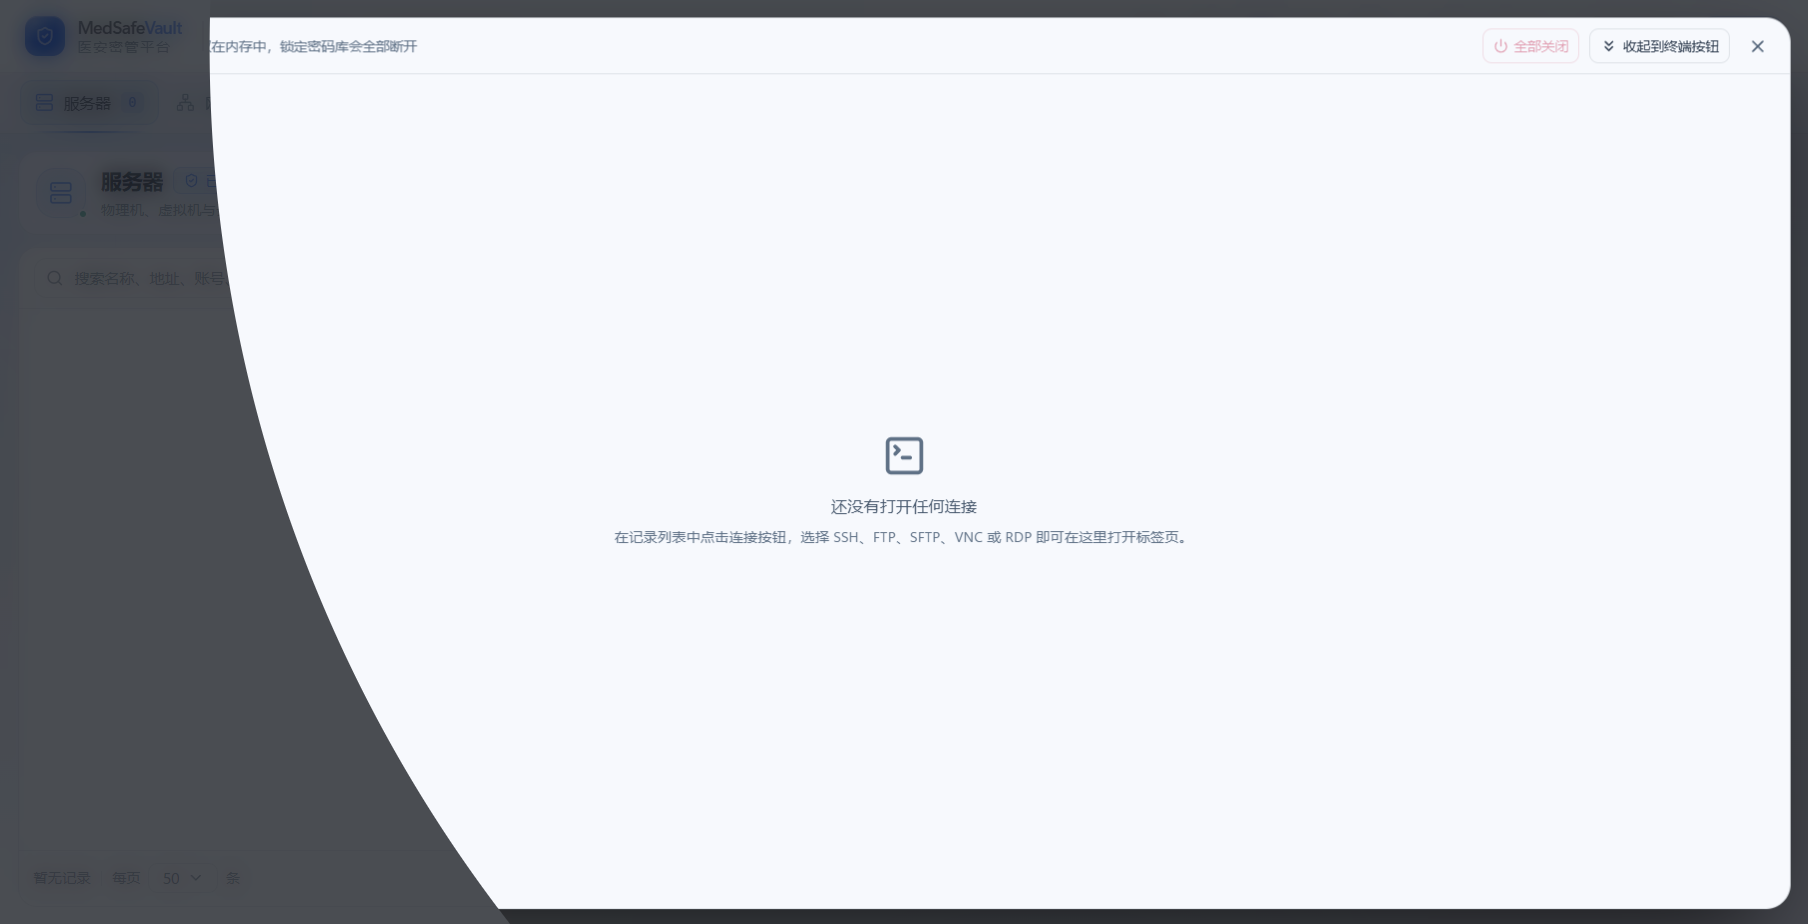
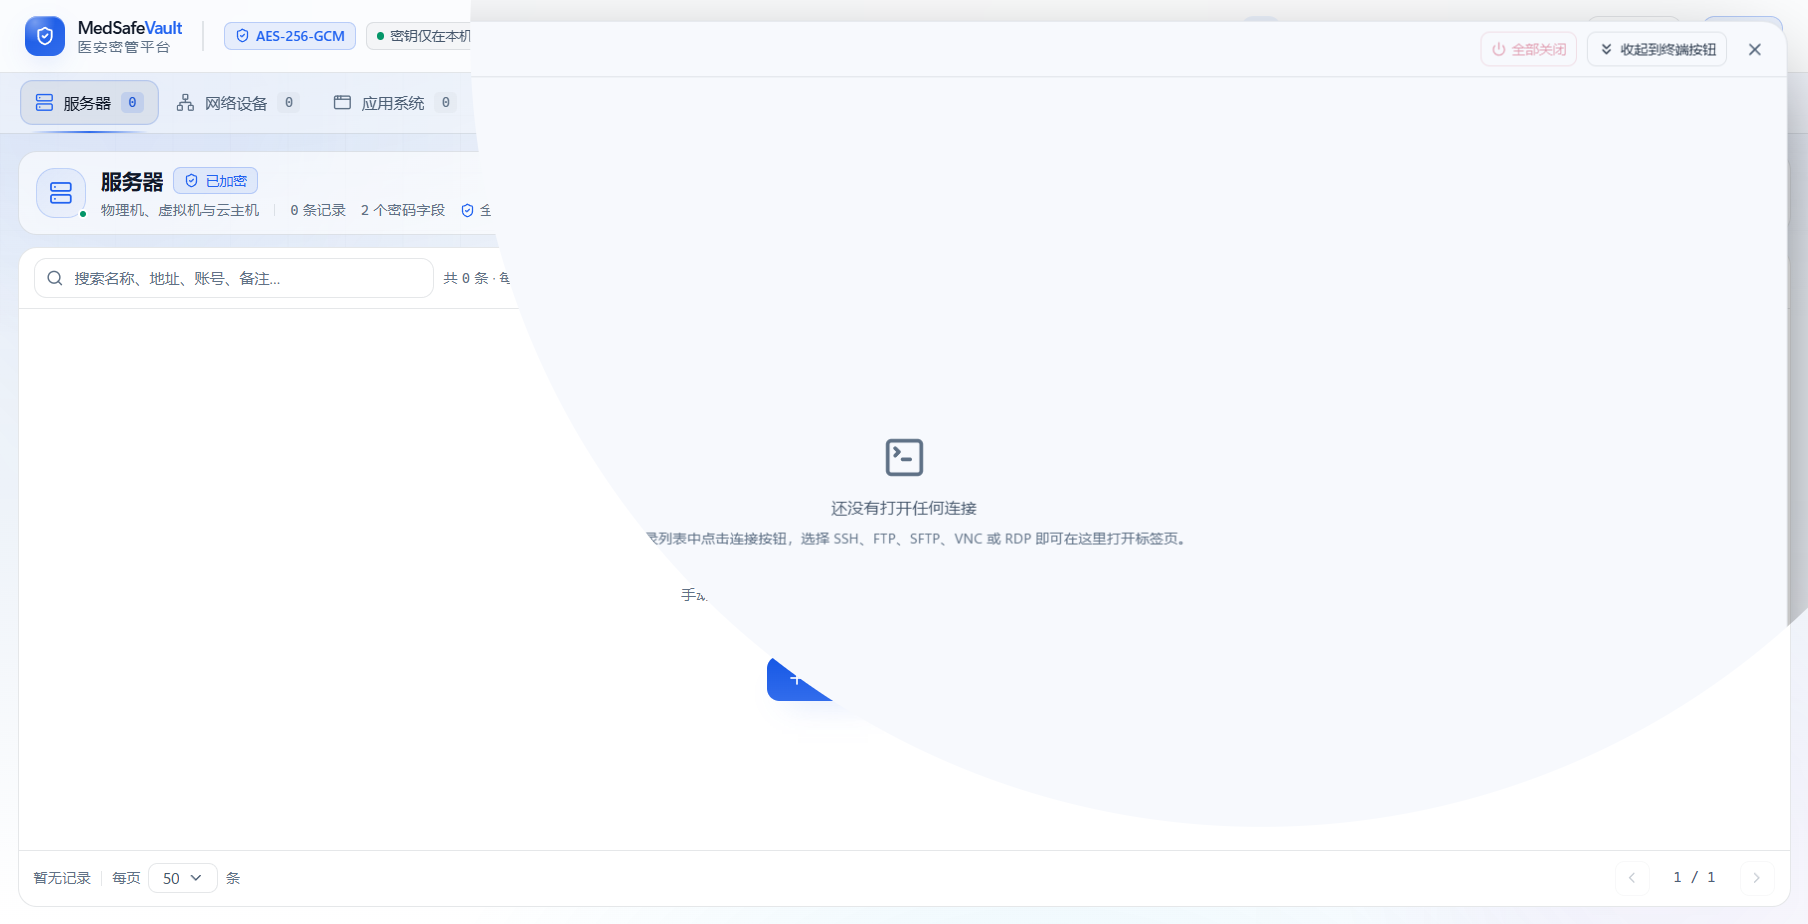
style(ui): 移除终端浮层暗色遮罩并统一勾选框样式
- 删除终端浮层的暗色遮罩层及其 scrim 进出动画关键帧
- 浮层打开/收起时保留原页面可见性，仅保留裁剪层与面板
- 将关闭询问、恢复码确认、设置页勾选框统一为 msv-check 样式
- 移除各勾选框原生 accent 与尺寸类名，改用自定义圆角方框样式
- 更新 README 中浮层动画与关闭行为的描述及截图编号

diff --git a/web/src/components/TerminalOverlay.tsx b/web/src/components/TerminalOverlay.tsx
@@ -177,16 +177,8 @@ export function TerminalOverlay({
       )}
       aria-hidden={phase === 'closed' || phase === 'closing'}
     >
-      {/* Scrim fades while the workspace surface itself grows/shrinks, so the
-          opening reads as a ripple from the trigger instead of a black disc. */}
-      <div
-        aria-hidden="true"
-        className={cn(
-          'absolute inset-0 bg-[#03060c]/80 backdrop-blur-sm',
-          phase === 'opening' && 'terminal-scrim-in',
-          phase === 'closing' && 'terminal-scrim-out',
-        )}
-      />
+      {/* No dimming scrim: the workspace grows straight out of the trigger,
+          so the page stays visible in the gutter around the panel. */}
       <div
         className={cn(
           'absolute inset-0 flex flex-col p-0 sm:p-3',

diff --git a/web/src/styles.css b/web/src/styles.css
@@ -1030,26 +1030,6 @@
   to { clip-path: circle(0px at var(--msv-rip-x) var(--msv-rip-y)); }
 }
 
-/* The dim layer fades on its own: the growing circle is the panel surface,
-   not a black dot that later turns into a panel. */
-.terminal-scrim-in {
-  animation: terminal-scrim-in 200ms ease-out both;
-}
-
-.terminal-scrim-out {
-  animation: terminal-scrim-out 280ms ease-in both;
-}
-
-@keyframes terminal-scrim-in {
-  from { opacity: 0; }
-  to { opacity: 1; }
-}
-
-@keyframes terminal-scrim-out {
-  from { opacity: 1; }
-  to { opacity: 0; }
-}
-
 /* The panel joins the ripple with a restrained lift instead of a full zoom. */
 .terminal-panel-in {
   animation: terminal-panel-in 340ms cubic-bezier(0.2, 0, 0, 1) both;

diff --git a/web/src/components/SettingsDialog.tsx b/web/src/components/SettingsDialog.tsx
@@ -1060,7 +1060,7 @@ export function SettingsDialog({
                   <label className="flex cursor-pointer items-center gap-2 text-[0.71875rem] text-ice-500">
                     <input
                       type="checkbox"
-                      className="size-3.5 accent-[var(--msv-accent)]"
+                      className="msv-check"
                       checked={showPassword}
                       onChange={(event) => setShowPassword(event.target.checked)}
                     />

diff --git a/web/src/components/CloseDialog.tsx b/web/src/components/CloseDialog.tsx
@@ -91,7 +91,7 @@ export function CloseDialog({
           <label className="flex cursor-pointer items-center gap-2 text-[0.71875rem] text-ice-500">
             <input
               type="checkbox"
-              className="size-3.5 accent-[var(--msv-accent)]"
+              className="msv-check"
               checked={remember}
               onChange={(event) => setRemember(event.target.checked)}
             />

diff --git a/web/src/components/RecoveryCodeDialog.tsx b/web/src/components/RecoveryCodeDialog.tsx
@@ -187,7 +187,7 @@ export function RecoveryCodeDialog({
             type="checkbox"
             checked={acknowledged}
             onChange={(event) => setAcknowledged(event.target.checked)}
-            className="mt-0.5 size-3.5 accent-teal-400"
+            className="msv-check mt-0.5"
           />
           <span className="text-[0.71875rem] leading-relaxed text-ice-400">
             {t(

diff --git a/README.md b/README.md
@@ -30,8 +30,8 @@
 - 每条记录可单独指定连接方式（默认 / SSH / RDP / Telnet / FTP / SFTP / VNC）。选「默认」时按端口判断（5900–5903 VNC、3389 RDP、21 FTP、23 Telnet、22 SSH），再按记录里的操作系统判断（Windows → RDP，其余 → SSH）；地址写成 `host:port` 时以地址里的端口为准。
 - RDP 调用系统 `mstsc`：设置里可选自动填充「用户名 + 密码 / 仅用户名 / 不填充」（默认仅用户名）。密码不写进 `.rdp` 文件，只在 mstsc 运行期间写入当前用户的临时凭据，mstsc 退出后立即删除。
 - 外部客户端可自动查找，也可在设置里指定路径：SecureCRT（支持带密码打开 SSH/Telnet 会话）、PuTTY、Xshell、Windows 自带 OpenSSH 与 telnet、WinSCP、VNC Viewer；浏览器地址仍可直接打开。
-- 内置终端：SSH 终端（xterm 前端）、FTP/SFTP 图形化双栏文件管理（上传、下载、新建目录、重命名、删除、切换本机目录）、VNC 画面（noVNC）。连接后在本窗口弹出全屏浮层，按标签页管理；多个标签时顶栏「终端」按钮显示数量角标，关闭浮层只是收回按钮、不中断会话；锁定或退出时全部断开。浮层打开/收起从顶栏「终端」按钮位置做 Material 风格的圆形扩散与反向收拢，遮罩单独淡入淡出，系统「减少动态效果」开启时自动近乎瞬时。
-- 关闭窗口有两种行为：最小化到小图标区（托盘）或直接退出。默认每次关闭都询问，可在弹窗里「记住我的选择」，也能在设置里改回每次询问。托盘小图标右键菜单提供打开主界面、锁定密码库、退出。
+- 内置终端：SSH 终端（xterm 前端）、FTP/SFTP 图形化双栏文件管理（上传、下载、新建目录、重命名、删除、切换本机目录）、VNC 画面（noVNC）。连接后在本窗口弹出全屏浮层，按标签页管理；多个标签时顶栏「终端」按钮显示数量角标，关闭浮层只是收回按钮、不中断会话；锁定或退出时全部断开。浮层打开/收起从顶栏「终端」按钮位置做 Material 风格的圆形扩散与反向收拢，不加暗色遮罩，面板四周仍能看到原页面；系统「减少动态效果」开启时自动近乎瞬时。
+- 关闭窗口有两种行为：最小化到小图标区（托盘）或直接退出。默认每次关闭都询问，可在弹窗里「记住我的选择」（勾选框与列表、导出弹窗使用同一套样式），也能在设置里改回每次询问。托盘小图标右键菜单提供打开主界面、锁定密码库、退出。
 - 单实例运行，重复启动会把已隐藏的窗口叫回前台；窗口会按屏幕可用区域自动缩小（高缩放率的 1366×768 笔记本不会把底栏藏到任务栏后面）。
 - 亮/暗/跟随系统三态主题、8 种强调色、界面大小（小/标准/大）、界面字体与代码字体（读取系统字体）、中英文界面（跟随系统，可手动切换）；主题与配色存在密码库里，换机或换用户配置后打开仍是原来的样子。
 - 内置帮助说明（顶栏问号，锁屏与首次设置页也有入口）：11 个小节覆盖加密模型、恢复密钥、数据目录搬移、备份迁移、Excel、远程连接、快捷键、环境变量与老旧终端部署，中英文同稿。
@@ -114,7 +114,7 @@ set MSV_DEV_URL=http://localhost:5179
 
 产物为 `dist/MedSafeVault.exe`（onefile、无控制台窗口、不压缩 UPX），构建结束会打印体积与 sha256。配置见 `MedSafeVault.spec`：打包 `web/dist` 与 `assets`，收集 `webview` 全部子模块（`edgechromium` / `winforms`）、`clr`、`bottle`、`openpyxl`、`xlrd`、`olefile`、`msoffcrypto` 的格式化/加密法子模块，以及 `paramiko`（含 `bcrypt` / `nacl`）、`websockets`、`pystray` 与 `PIL.Image`/`ImageDraw`；版本信息来自 `packaging/version_info.txt`。
 
-当前产物 **26.9 MB**，`sha256 1c11af870c0232c0617e31daed751972617655e44c0ba82b0ae8eb014500f195`（Python 3.13 x64 构建，已在真机完成启动、解锁、内置终端与关闭/托盘流程验证，见第 9 节）。换机器或改依赖后重新构建，以脚本打印值为准。
+当前产物 **26.9 MB**，`sha256 0a1df9543ab7b4178c307c3682e287fd0e990fb5b3d031bb27a6d52dc61d7337`（Python 3.13 x64 构建，已在真机完成启动、解锁、内置终端与关闭/托盘流程验证，见第 9 节）。换机器或改依赖后重新构建，以脚本打印值为准。
 
 免管理员说明：onefile 解压到 `%TEMP%`，数据写入 `%APPDATA%\MedSafeVault`，不写注册表、不需要安装运行库，拷到任意可写目录即可运行。
 
@@ -245,7 +245,7 @@ Win7 终端要跑本项目，需要一条独立的 32 位工具链：
 
 加密链路经后端脚本核对：不同层级密文前缀、遗留明文重封套、`suggest_values` 不返回密码列、删除/撤销/重做与历史解密一致。界面在 900px 窄屏与应用最小 1140×700（大字号）下均无挤压。演示数据统一使用 `203.0.113.x` / `192.0.2.x` / `198.51.100.x` 等文档保留地址与 `demo_*` 账号。
 
-2026-10-29 补充连接方式、内置终端与托盘/关闭行为，截图见 `screenshots/36-52`：
+2026-10-29 补充连接方式、内置终端与托盘/关闭行为，截图见 `screenshots/36-54`：
 
 - **连接方式与设置**：记录弹窗里的连接方式下拉（默认/SSH/RDP/Telnet/FTP/SFTP/VNC，`38`），设置「远程连接」页的 SSH/Telnet/文件/VNC 客户端与程序路径、RDP 自动填充（`37`），列表行连接菜单（`36`）；「默认」按端口与操作系统推断、`host:port` 优先，`tools/test_connect.py` 覆盖端口、地址内端口、Windows/非 Windows 与设置持久化。
 - **内置 SSH**：在临时数据目录里连本机演示 SSH 服务（`127.0.0.1:2223`），真实窗口的 xterm 输出欢迎语，输入命令有回显（`43`）。
@@ -253,8 +253,9 @@ Win7 终端要跑本项目，需要一条独立的 32 位工具链：
 - **悬浮终端与 RDP 标签**：演示模式验证空浮层提示（`39`）、暗色双标签（`41`）、RDP 标签页（mstsc 保持独立窗口，标签只负责唤回与关闭，`42`）。
 - **关闭行为**：向真实窗口发送 `WM_CLOSE`，应用内弹出关闭询问（`45`）；选「最小化到小图标区」后窗口隐藏、进程保持响应，再次启动 exe 会把窗口叫回前台且仍保持解锁（`46`）；勾选「记住我的选择」后再次点 X 直接隐藏、不再询问；调用托盘菜单同一入口 `tray_lock` 后窗口回到前台并显示「保险库已手动锁定」（`47`）；调用 `close_window('quit')` 后进程正常退出，无死锁。
 - **窗口适配**：125% 缩放、1920×1080（可用 1536×816）的屏幕上，窗口自动从 1460×930 缩到 1460×776，锁屏底栏与版本号完整可见（`48`）。
-- **单文件 exe**：重新打包后（26.9 MB，`sha256 1c11af87…0f195`）用同一临时数据目录启动，解锁后 4 条记录完整；从行菜单连接本机 SSH，浮层里出现 `MedSafeVault demo shell`（`49`），说明 paramiko 已正确打入；「收起到终端按钮」后顶栏按钮显示角标 `1`（`50`），再点开标签内容仍在；点「锁定」后浮层与角标一起消失，重新解锁不再有会话；调用 `quit` 后进程正常退出。
-- **浮层动画**：真实窗口用 CDP screencast 逐帧截取打开/收起过程，圆弧从顶栏「终端」按钮（`1009, 29`）向外扩散到覆盖最远角（半径 `1258px`），收起时反向缩回同一点；扩散中（`51`）与收拢中（`52`）边缘平滑、无黑盘或残影，结束后浮层为 `visibility: hidden` 且不再接收点击。打包后的 exe 重复同一流程，圆心与半径一致；系统「减少动态效果」由全局样式压到 0.01ms。
+- **单文件 exe**：重新打包后（26.9 MB，`sha256 0a1df954…d7337`）用同一临时数据目录启动，解锁后 4 条记录完整；从行菜单连接本机 SSH，浮层里出现 `MedSafeVault demo shell`（`49`），说明 paramiko 已正确打入；「收起到终端按钮」后顶栏按钮显示角标 `1`（`50`），再点开标签内容仍在；点「锁定」后浮层与角标一起消失，重新解锁不再有会话；调用 `quit` 后进程正常退出。
+- **浮层动画**：真实窗口用 CDP screencast 逐帧截取打开/收起过程，圆弧从顶栏「终端」按钮（`1009, 29`）向外扩散到覆盖最远角（半径 `1258px`），收起时反向缩回同一点；扩散中（`51`）与收拢中（`52`）边缘平滑、无残影，结束后浮层为 `visibility: hidden` 且不再接收点击。系统「减少动态效果」由全局样式压到 0.01ms。按反馈去掉了浮层外的暗色遮罩与模糊（`54`），面板四周的 12px 留边仍能看到列表页，浮层结构只剩裁剪层与面板两层。
+- **关闭询问勾选框**：「记住我的选择，以后不再询问」改用与列表行、导出弹窗一致的 `msv-check` 样式（圆角方框 + 强调色对勾，`53`）；恢复码确认与设置里的「显示密码」两处原本也是浏览器原生样式，一并统一。
 
 托盘小图标本身（在通知区用鼠标点 pystray 菜单）仍需人工确认，自动化只覆盖了菜单回调调用的同一组 API。
 
